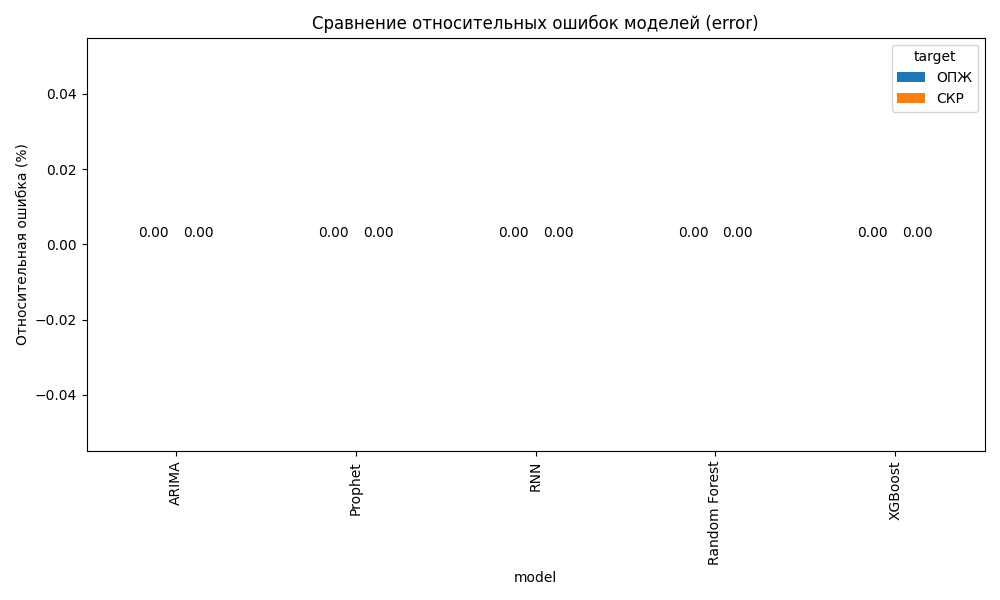
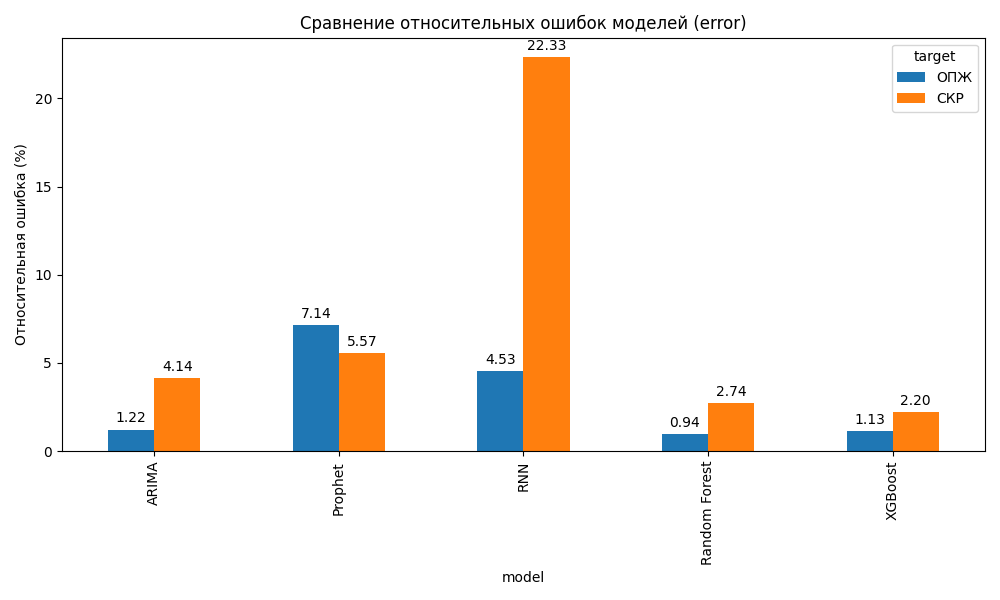
Auto update metrics [ci skip]

diff --git a/notebooks/Readme.md b/notebooks/Readme.md
@@ -1,52 +1,192 @@
 # Отчёт по моделям
 ## Модель: ARIMA — СКР
 ```
-
+====================================================================================================
+Отклонение таргета относительно прогноза:
+RMSE: 0.0593
+MAE: 0.0445
+R²: 0.9544
+Средний СКР: 1.4329
+Относительная ошибка: 4.14%
+====================================================================================================
+Отклонение таргета относительно СРЕДНЕГО:
+RMSE: 0.3348
+MAE: 0.2725
+R²: -0.4538
+Средний СКР: 1.4329
+Относительная ошибка: 23.37%
+{"RMSE": 0.05926621495670294, "MAE": 0.04445411764705883, "R2": 0.9544499972734612, "relative_error": 4.136024551407526, "relative_average": 23.366633676905913}
 ```
 
 ## Модель: ARIMA — ОПЖ
 ```
-
+====================================================================================================
+Отклонение таргета относительно прогноза:
+RMSE: 0.8804
+MAE: 0.7063
+R²: 0.8856
+Средний ОПЖ: 72.4341
+Относительная ошибка: 1.22%
+====================================================================================================
+Отклонение таргета относительно СРЕДНЕГО:
+RMSE: 2.8435
+MAE: 2.1326
+R²: -0.1932
+Средний ОПЖ: 72.4341
+Относительная ошибка: 3.93%
+{"RMSE": 0.880369612552525, "MAE": 0.7062552941176471, "R2": 0.8856220471199727, "relative_error": 1.2154073814251432, "relative_average": 3.9255724713872944}
 ```
 
 ## Модель: Prophet — СКР
 ```
-
+====================================================================================================
+Отклонение таргета относительно прогноза:
+RMSE: 0.0804
+MAE: 0.0626
+R²: 0.9166
+Средний СКР: 1.4430
+Относительная ошибка: 5.57%
+====================================================================================================
+Отклонение таргета относительно СРЕДНЕГО:
+RMSE: 0.3299
+MAE: 0.2663
+R²: -0.4045
+Средний СКР: 1.4430
+Относительная ошибка: 22.86%
+{"RMSE": 0.08039634474917264, "MAE": 0.06261784104002265, "R2": 0.9165793307910134, "relative_error": 5.57158582473221, "relative_average": 22.86120035365979}
 ```
 
 ## Модель: Prophet — ОПЖ
 ```
-
+====================================================================================================
+Отклонение таргета относительно прогноза:
+RMSE: 5.1509
+MAE: 4.8807
+R²: -3.2340
+Средний ОПЖ: 72.1126
+Относительная ошибка: 7.14%
+====================================================================================================
+Отклонение таргета относительно СРЕДНЕГО:
+RMSE: 2.6350
+MAE: 1.9764
+R²: -0.1080
+Средний ОПЖ: 72.1126
+Относительная ошибка: 3.65%
+{"RMSE": 5.150934069517236, "MAE": 4.880674739778387, "R2": -3.233954240499953, "relative_error": 7.142899726473126, "relative_average": 3.6540144304911046}
 ```
 
 ## Модель: Random Forest — СКР
 ```
-
+====================================================================================================
+Отклонение таргета относительно прогноза:
+RMSE: 0.0393
+MAE: 0.0292
+R²: 0.9796
+Средний СКР: 1.4365
+Относительная ошибка: 2.74%
+====================================================================================================
+Отклонение таргета относительно СРЕДНЕГО:
+RMSE: 0.3311
+MAE: 0.2689
+R²: -0.4436
+Средний СКР: 1.4365
+Относительная ошибка: 23.05%
+{"RMSE": 0.03932620591272432, "MAE": 0.029168101179533782, "R2": 0.9796317627567215, "relative_error": 2.7376965623108656, "relative_average": 23.04800988295015}
 ```
 
 ## Модель: Random Forest — ОПЖ
 ```
-
+====================================================================================================
+Отклонение таргета относительно прогноза:
+RMSE: 0.6832
+MAE: 0.5865
+R²: 0.9311
+Средний ОПЖ: 72.4341
+Относительная ошибка: 0.94%
+====================================================================================================
+Отклонение таргета относительно СРЕДНЕГО:
+RMSE: 2.8435
+MAE: 2.1326
+R²: -0.1932
+Средний ОПЖ: 72.4341
+Относительная ошибка: 3.93%
+{"RMSE": 0.6831684827920756, "MAE": 0.5864823301127474, "R2": 0.931124006433729, "relative_error": 0.9431584244884023, "relative_average": 3.9255724713872944}
 ```
 
 ## Модель: RNN — СКР
 ```
-
+====================================================================================================
+Отклонение таргета относительно прогноза:
+RMSE: 0.3222
+MAE: 0.2514
+R²: -0.3402
+Средний СКР: 1.4430
+Относительная ошибка: 22.33%
+====================================================================================================
+Отклонение таргета относительно СРЕДНЕГО:
+RMSE: 0.3299
+MAE: 0.2663
+R²: -0.4045
+Средний СКР: 1.4430
+Относительная ошибка: 22.86%
+{"RMSE": 0.3222381223996383, "MAE": 0.25142352362801046, "R2": -0.3401545911682544, "relative_error": 22.331579384007057, "relative_average": 22.86120035365979}
 ```
 
 ## Модель: RNN — ОПЖ
 ```
-
+====================================================================================================
+Отклонение таргета относительно прогноза:
+RMSE: 3.2670
+MAE: 2.6163
+R²: -0.7032
+Средний ОПЖ: 72.1126
+Относительная ошибка: 4.53%
+====================================================================================================
+Отклонение таргета относительно СРЕДНЕГО:
+RMSE: 2.6350
+MAE: 1.9764
+R²: -0.1080
+Средний ОПЖ: 72.1126
+Относительная ошибка: 3.65%
+{"RMSE": 3.2670192967283587, "MAE": 2.6162766813390395, "R2": -0.7032467821757102, "relative_error": 4.530438737137739, "relative_average": 3.6540144304911046}
 ```
 
 ## Модель: XGBoost — СКР
 ```
-
+====================================================================================================
+Отклонение таргета относительно прогноза:
+RMSE: 0.0316
+MAE: 0.0240
+R²: 0.9869
+Средний СКР: 1.4365
+Относительная ошибка: 2.20%
+====================================================================================================
+Отклонение таргета относительно СРЕДНЕГО:
+RMSE: 0.3311
+MAE: 0.2689
+R²: -0.4436
+Средний СКР: 1.4365
+Относительная ошибка: 23.05%
+{"RMSE": 0.031577557563355854, "MAE": 0.023965081697351762, "R2": 0.9868675299764527, "relative_error": 2.1982738680468854, "relative_average": 23.04800988295015}
 ```
 
 ## Модель: XGBoost — ОПЖ
 ```
-
+====================================================================================================
+Отклонение таргета относительно прогноза:
+RMSE: 0.8215
+MAE: 0.7429
+R²: 0.9004
+Средний ОПЖ: 72.4341
+Относительная ошибка: 1.13%
+====================================================================================================
+Отклонение таргета относительно СРЕДНЕГО:
+RMSE: 2.8435
+MAE: 2.1326
+R²: -0.1932
+Средний ОПЖ: 72.4341
+Относительная ошибка: 3.93%
+{"RMSE": 0.8214864661036654, "MAE": 0.7429433773265169, "R2": 0.9004106133538248, "relative_error": 1.1341153765500749, "relative_average": 3.9255724713872944}
 ```
 
 ## Диаграмма относительных ошибок
